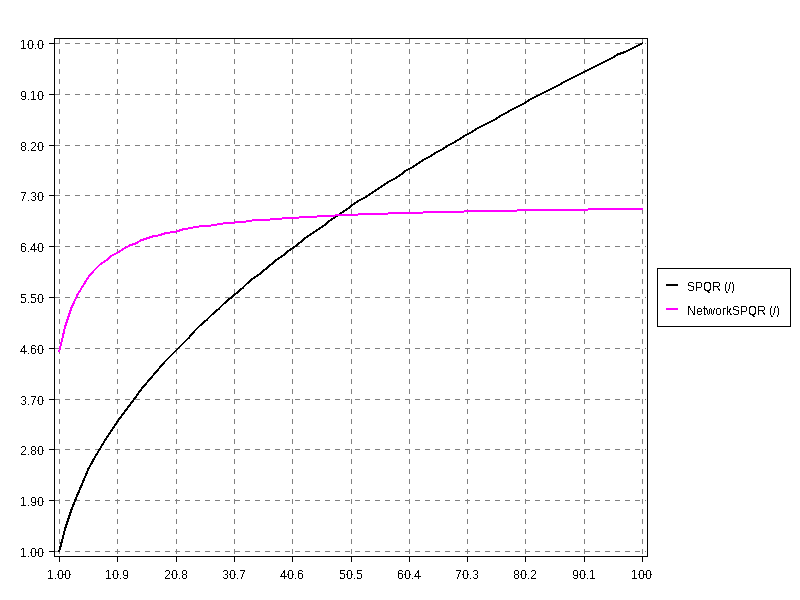
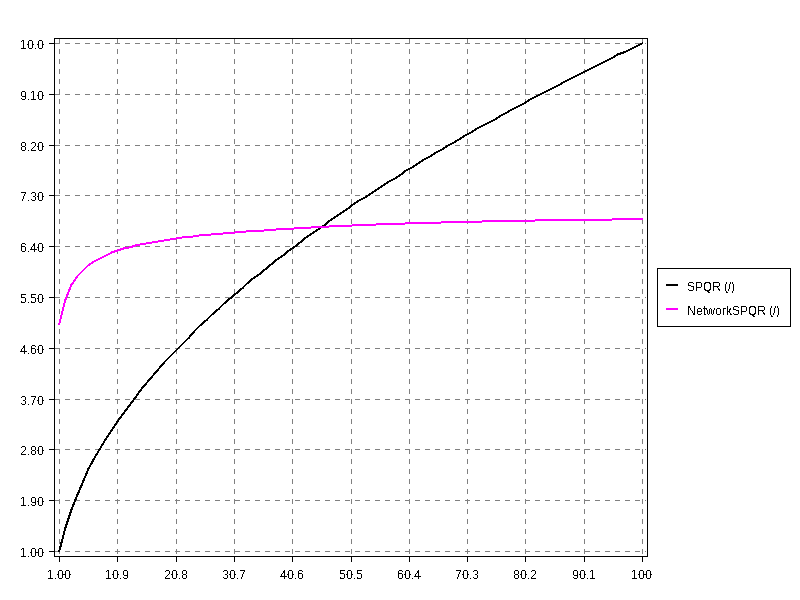
Sigmoid derivative is simpler

Changed region(s): [[0.1562, 0.33, 0.7812, 0.42], [0.0938, 0.42, 0.1562, 0.48], [0.0625, 0.48, 0.0938, 0.54]]

diff --git a/src/functions/SigmoidFunction.java b/src/functions/SigmoidFunction.java
@@ -3,11 +3,11 @@ package functions;
 public class SigmoidFunction implements Function {
     @Override
     public double functionValue(double x) {
-        return 1 / (1 + Math.exp(-x));
+        return 1.0 / (1.0 + Math.exp(-x));
     }
 
     @Override
     public double derivativeValue(double x) {
-        return (Math.exp(x) / Math.pow((Math.exp(x) + 1), 2));
+        return functionValue(x) * (1- functionValue(x));
     }
 }
